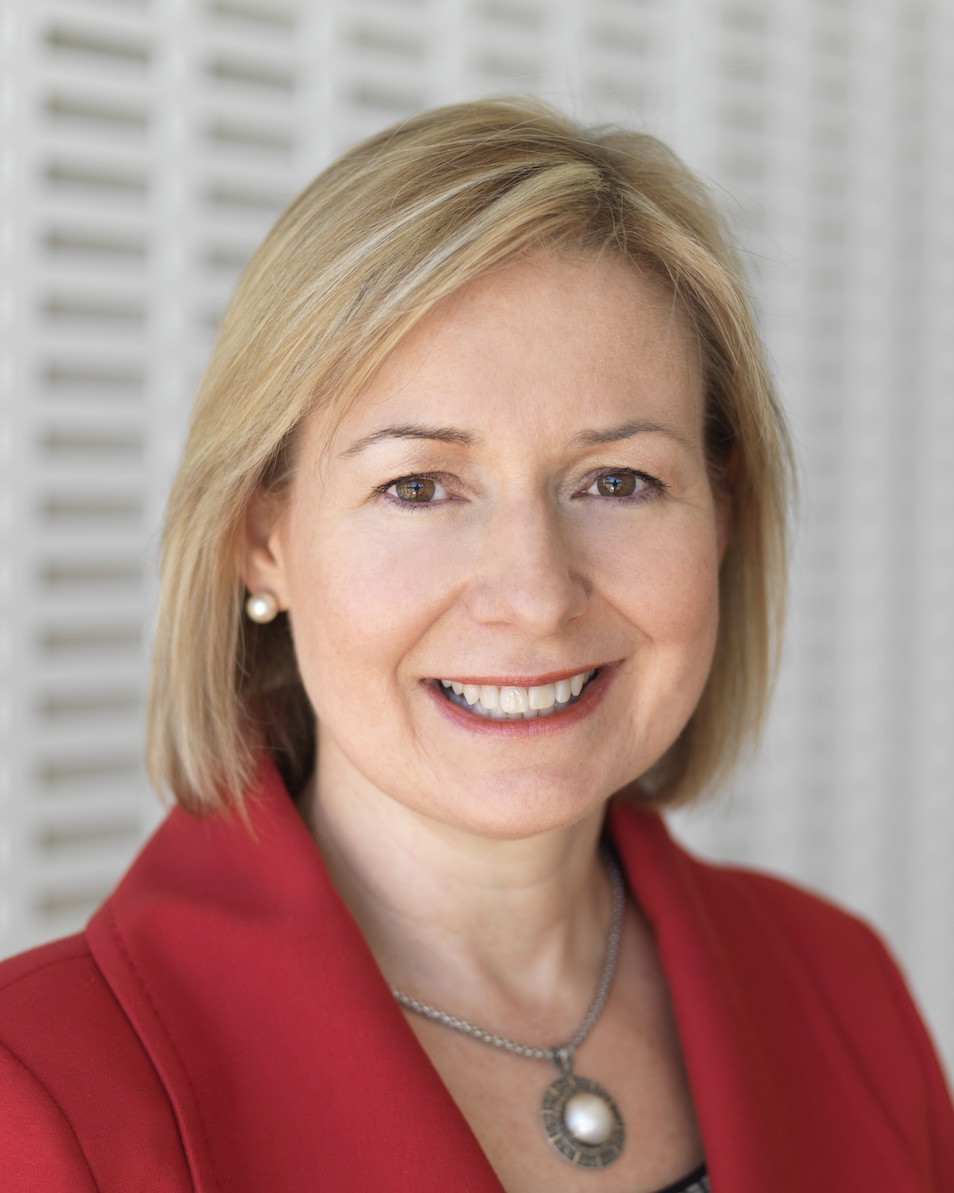
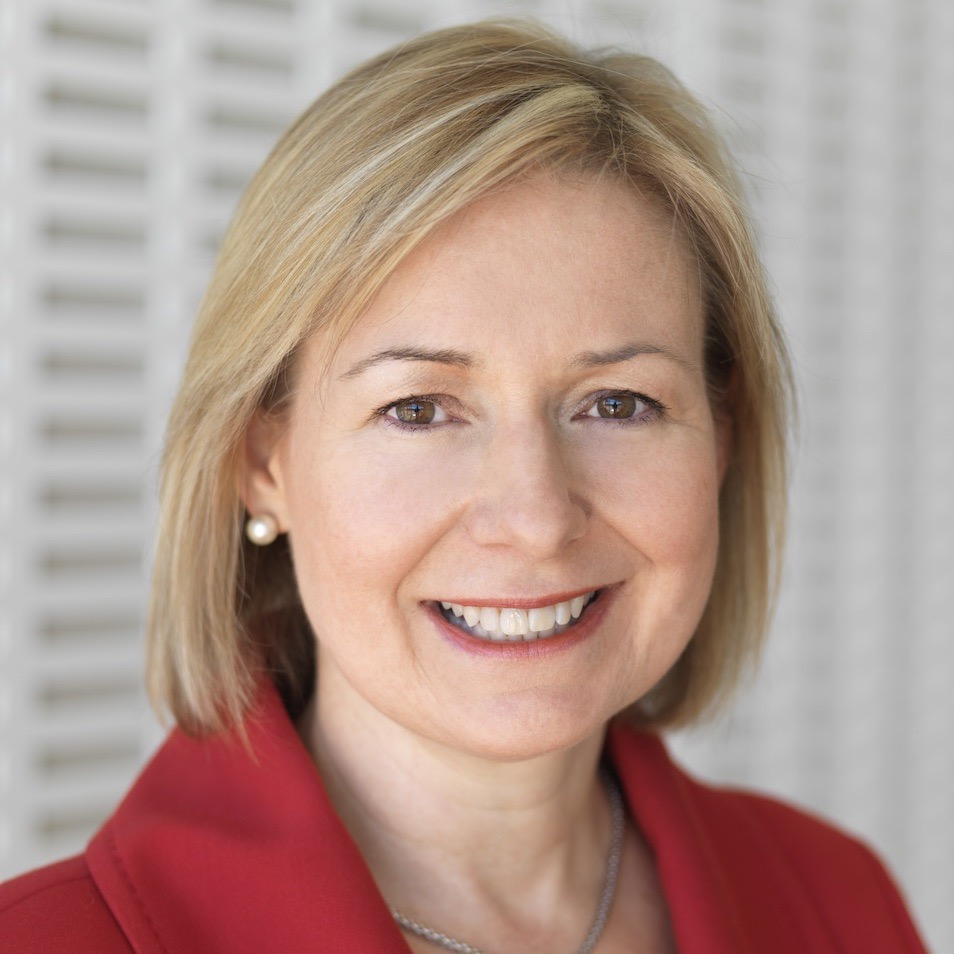
Addition of Teams Page Finalized.

diff --git a/src/viz_app/templates/viz_app/team.html b/src/viz_app/templates/viz_app/team.html
@@ -1,9 +1,9 @@
 {% extends parent %} {% load staticfiles %} {% block content %}
 <div class="content">
-  <h1>Team</h1>
+  <h1 class='study-name'>Team</h1>
   <div class="spacer"></div>
   <div class="row">
-    <h2 style='margin-bottom: 0;'>Current MIT Members</h2>
+    <h2 style='margin-bottom: 0;' class='study-name'>Current MIT Members</h2>
       <div class="members">
 
         <div class="member">
@@ -14,14 +14,16 @@
             </div>
           </div>
           <div class="name-text">
-            <h3 style="font-weight: bold; text-align: left; margin-left: 0; margin-bottom: 0.1em">Rosalind Picard</h3>
+            <h3 style="font-weight: bold; text-align: left; margin-left: 0; margin-bottom: 0.1em">Rosalind Picard Sc.D, FIEEE</h3>
             <i>(Principal Investigator)</i>
             <br>
             <p style='line-height:1.2rem; margin-left: 0; margin-top: 1em'>
-            Dr. Pedrelli is the Director of Dual Diagnoses Studies at the DCRP at Massachusetts General Hospital, and an Assistant Professor at Harvard Medical School.
-            </p>
-            <div style='display:flex; margin-top: 0.75em'>
-            </div>
+Dr. Picard is a Professor in MIT’s Program in Media Arts and Sciences and a founder and director of the <a href="https://www.media.mit.edu/groups/affective-computing/overview/">Affective Computing Research Group</a> at the Massachusetts Institute of Technology (MIT) Media Lab.</p>
+          <div style='display:flex; margin-top: 0.75em'>
+            <a href="http://web.media.mit.edu/~picard/" style='margin-right: 1rem'>Personal Website</a>
+            |
+            <a href="https://www.media.mit.edu/groups/affective-computing/publications/" style='margin-left: 1rem'>Publications</a>
+          </div>
           </div>
         </div>
         <div class="member">
@@ -32,13 +34,16 @@
             </div>
           </div>
           <div class="name-text">
-            <h3 style="font-weight: bold; text-align: left; margin-left: 0; margin-bottom: 0.1em">Szymon Fedor</h3>
-            <i>(Research Scientist)</i>
+            <h3 style="font-weight: bold; text-align: left; margin-left: 0; margin-bottom: 0.1em">Szymon Fedor, PhD</h3>
+            <i>(Co-Investigator)</i>
             <br>
             <p style='line-height:1.2rem; margin-left: 0; margin-top: 1em'>
-            Dr. Pedrelli is the Director of Dual Diagnoses Studies at the DCRP at Massachusetts General Hospital, and an Assistant Professor at Harvard Medical School.
+            Dr. Fedor is a Research Scientist in the MIT Media Lab.
             </p>
             <div style='display:flex; margin-top: 0.75em'>
+              <a href="https://szymonfedor.eu/" style='margin-right: 1rem'>Personal Website</a>
+              |
+              <a href="https://scholar.google.com/citations?user=ndv95w0AAAAJ&hl=en" style='margin-left: 1rem'>Publications</a>
             </div>
           </div>
         </div>
@@ -50,13 +55,15 @@
             </div>
           </div>
           <div class="name-text">
-            <h3 style="font-weight: bold; text-align: left; margin-left: 0; margin-bottom: 0.1em">Asma Ghandeharioun</h3>
+            <h3 style="font-weight: bold; text-align: left; margin-left: 0; margin-bottom: 0.1em">Asma Ghandeharioun, MSc</h3>
             <i>(Graduate Student)</i>
             <br>
             <p style='line-height:1.2rem; margin-left: 0; margin-top: 1em'>
-            Dr. Pedrelli is the Director of Dual Diagnoses Studies at the DCRP at Massachusetts General Hospital, and an Assistant Professor at Harvard Medical School.
             </p>
             <div style='display:flex; margin-top: 0.75em'>
+              <a href="http://web.media.mit.edu/~asma_gh/" style='margin-right: 1rem'>Personal Website</a>
+              |
+              <a href="https://scholar.google.com/citations?user=CkfQy2gAAAAJ" style='margin-left: 1rem'>Publications</a>
             </div>
           </div>
         </div>
@@ -68,12 +75,11 @@
             </div>
           </div>
           <div class="name-text">
-            <h3 style="font-weight: bold; text-align: left; margin-left: 0; margin-bottom: 0.1em">Darian Bhathena</h3>
+            <h3 style="font-weight: bold; text-align: left; margin-left: 0; margin-bottom: 0.1em">Darian Bhathena, BSc</h3>
             <i>(UROP Student)</i>
             <br>
             <p style='line-height:1.2rem; margin-left: 0; margin-top: 1em'>
-            Dr. Pedrelli is the Director of Dual Diagnoses Studies at the DCRP at Massachusetts General Hospital, and an Assistant Professor at Harvard Medical School.
-            </p>
+Darian Bhathena is a Master’s student in the Affective Computing group at the Media Lab. He received his B.S. in Computer Science and Engineering with a minor in Biomedical Engineering from MIT in 2020.            </p>
             <div style='display:flex; margin-top: 0.75em'>
             </div>
           </div>
@@ -90,7 +96,7 @@
             <i>(UROP Student)</i>
             <br>
             <p style='line-height:1.2rem; margin-left: 0; margin-top: 1em'>
-            Dr. Pedrelli is the Director of Dual Diagnoses Studies at the DCRP at Massachusetts General Hospital, and an Assistant Professor at Harvard Medical School.
+            Noah Faro is an undergraduate at MIT studying Computer Science and Engineering with a Minor in Biology. He was formerly a researcher in the Langer Lab at the Koch Institute of Integrative Cancer Research.
             </p>
             <div style='display:flex; margin-top: 0.75em'>
             </div>
@@ -108,7 +114,7 @@
             <i>(UROP Student)</i>
             <br>
             <p style='line-height:1.2rem; margin-left: 0; margin-top: 1em'>
-            Dr. Pedrelli is the Director of Dual Diagnoses Studies at the DCRP at Massachusetts General Hospital, and an Assistant Professor at Harvard Medical School.
+            Olivia is a junior at MIT studying Computation and Cognition. In MIT's Undergraduate Association, she is the Vice Chair of the Committee for Student Support and Wellness.
             </p>
             <div style='display:flex; margin-top: 0.75em'>
             </div>
@@ -117,7 +123,7 @@
       </div>
   <div class="spacer"></div>
   <div class="row">
-    <h2 style='margin-bottom: 0;'>Current MGH Members</h2>
+    <h2 style='margin-bottom: 0;' class='study-name'>Current MGH Members</h2>
     <div class="members">
       <div class="member">
         <div class="" style='width: 40vh; height: 40vh;'>

diff --git a/src/static/css/style.css b/src/static/css/style.css
@@ -558,20 +558,9 @@ div.plotly-notifier {
 }
 
 .personalimage {
-  position: relative;
   height: 40vh;
   width: 40vh;
-}
-
-.personalimage.left {
-  padding-left: 0vw;
   border-radius: 50%;
-}
-
-.personalimage.right {
-  padding-left: 0vw;
-  border-radius: 50%;
-
 }
 
 .members {
